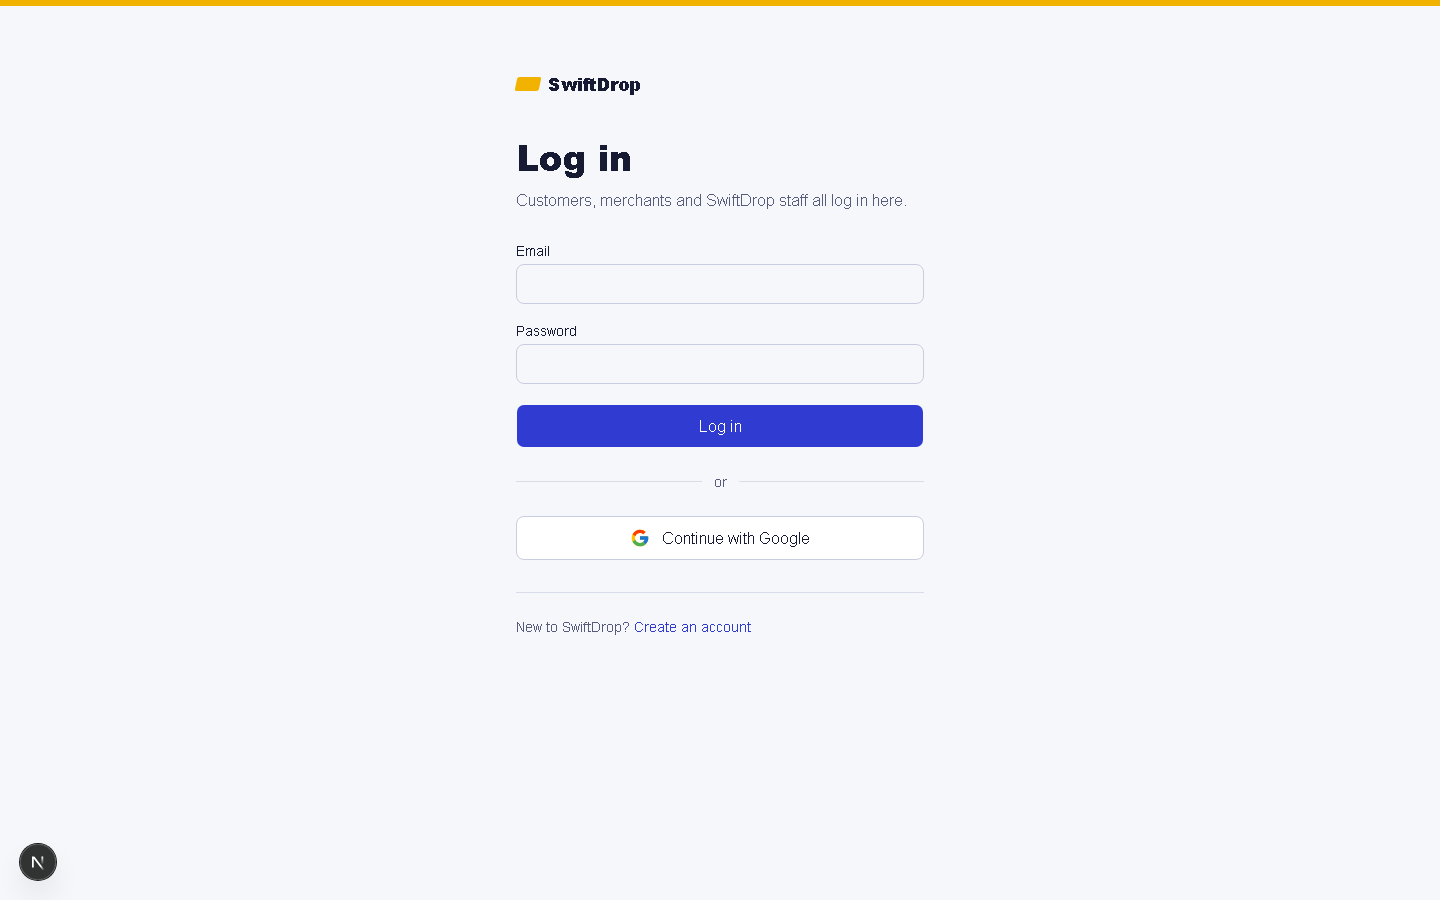
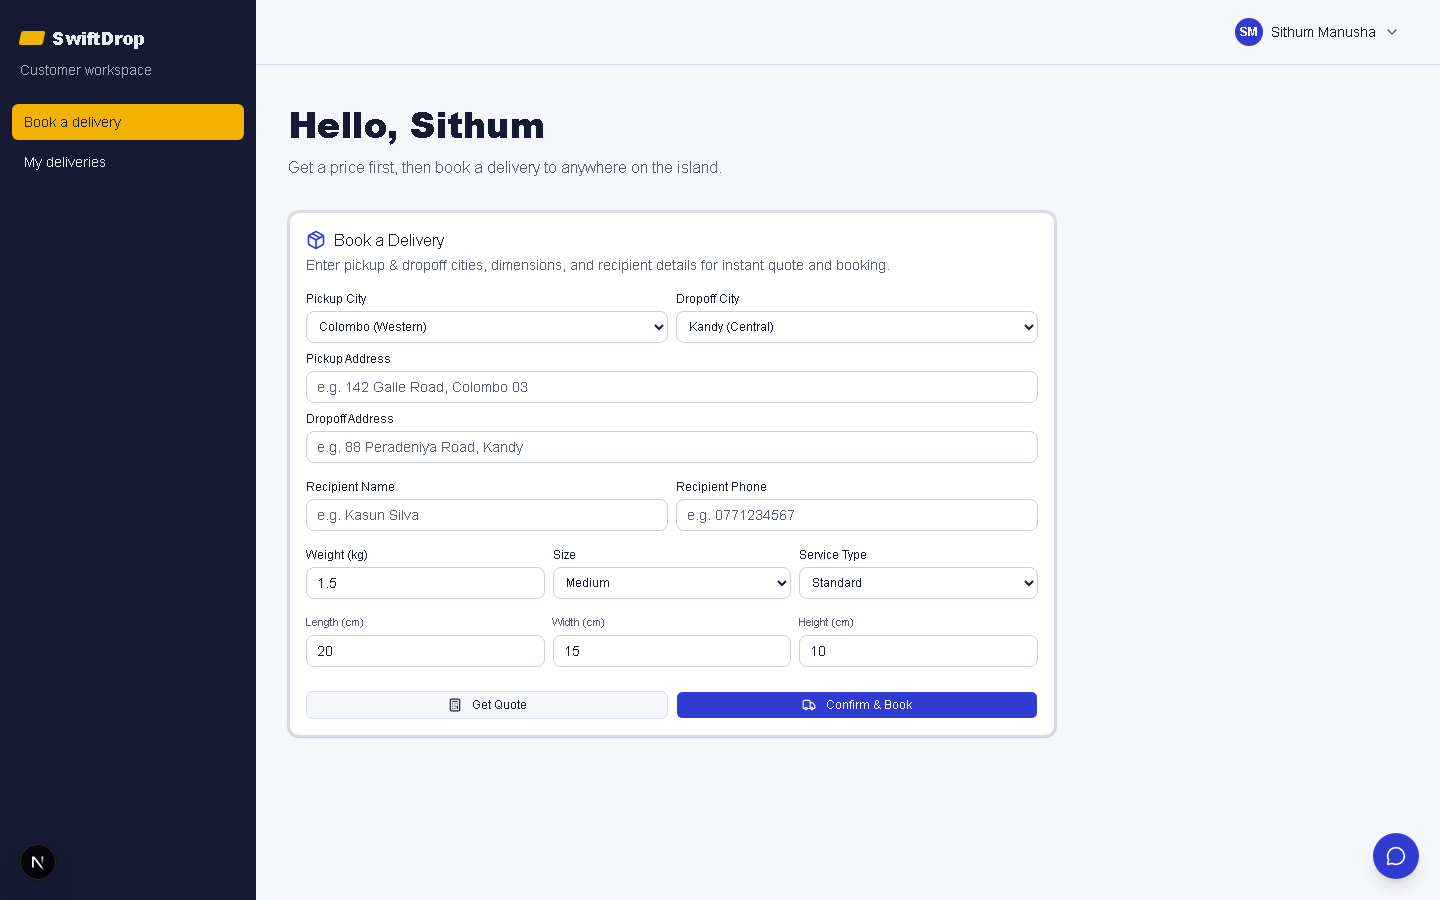
fix(showcase): embed authentic customer dashboard and correct project repo url in SwiftDrop card

diff --git a/src/App.tsx b/src/App.tsx
@@ -911,7 +911,7 @@ const projectDetailsData: Record<string, ProjectDetails> = {
       tables: ["parcels", "parcel_status_history", "idempotency_keys", "delivery_zones", "zone_pricing_rules", "outbox_events"],
       description: "PostgreSQL schema with PostGIS polygon geometry for delivery zones, foreign key integrity on status history, and transactional outbox event storage."
     },
-    image: "/swiftdrop_3d_showcase.png?v=home3d",
+    image: "/swiftdrop_3d_showcase.png?v=real_home_v3",
     github: "https://github.com/RJSoori/SwiftDrop"
   }
 };
@@ -1608,7 +1608,7 @@ const projectsData: ProjectItem[] = [
       'Dynamic Quoting & PostGIS Spatial Rules: Implemented volumetric pricing algorithms (L×W×H/5000) and point-in-polygon zone lookups across 25 Sri Lankan cities with automated fallback base rates.',
       'Live SVG QR Tracking & Outbox Relay: Developed automated QR code generation in Next.js 15, public mobile tracking screens, and transactional outbox event publishing to RabbitMQ topic exchanges.'
     ],
-    image: '/swiftdrop_3d_showcase.png?v=home3d',
+    image: '/swiftdrop_3d_showcase.png?v=real_home_v3',
     alt: 'SwiftDrop Enterprise Microservices Courier & Logistics Platform 3D Interface Showcase',
     tags: ['Java 21', 'Spring Boot 3.5', 'Next.js 15', 'TypeScript', 'PostgreSQL (PostGIS)', 'RabbitMQ', 'Docker Compose', 'JUnit 5', 'Vitest', 'Tailwind CSS'],
     githubUrl: 'https://github.com/RJSoori/SwiftDrop',
@@ -2932,6 +2932,7 @@ function App() {
                          currentProj.id === 'ledgerly' ? 'ledgerly-nine-rust.vercel.app' :
                          currentProj.id === 'careerflow' ? 'careerflow-pink.vercel.app' :
                          currentProj.id === 'pulse-ai' ? 'pulse-ai-blog-engine.onrender.com' :
+                         currentProj.id === 'swiftdrop' ? 'github.com/RJSoori/SwiftDrop' :
                          'github.com/SithumManusha/robotic-sorting-system'}
                       </span>
                     </div>
@@ -2962,7 +2963,8 @@ function App() {
                   }}>
                     <span style={{ width: '7px', height: '7px', borderRadius: '50%', background: '#10b981', display: 'inline-block' }}></span>
                     {currentProj.id === 'robotic-sorting' ? 'Mechatronics & Embedded Architecture' :
-                     currentProj.id === 'pulse-ai' ? 'Generative AI & MVC Architecture' : 'Enterprise Architecture'}
+                     currentProj.id === 'pulse-ai' ? 'Generative AI & MVC Architecture' :
+                     currentProj.id === 'swiftdrop' ? 'Enterprise Microservices & Cloud' : 'Enterprise Architecture'}
                   </div>
 
                   {/* Aspect Video Image Container */}
